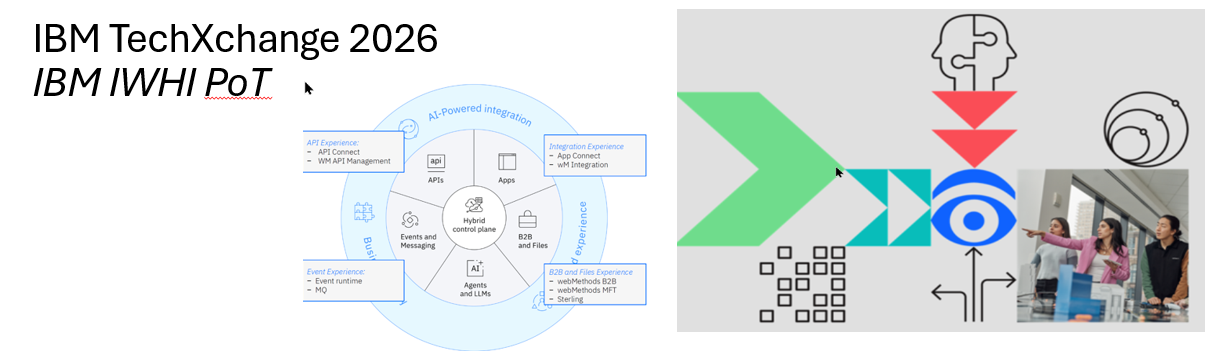
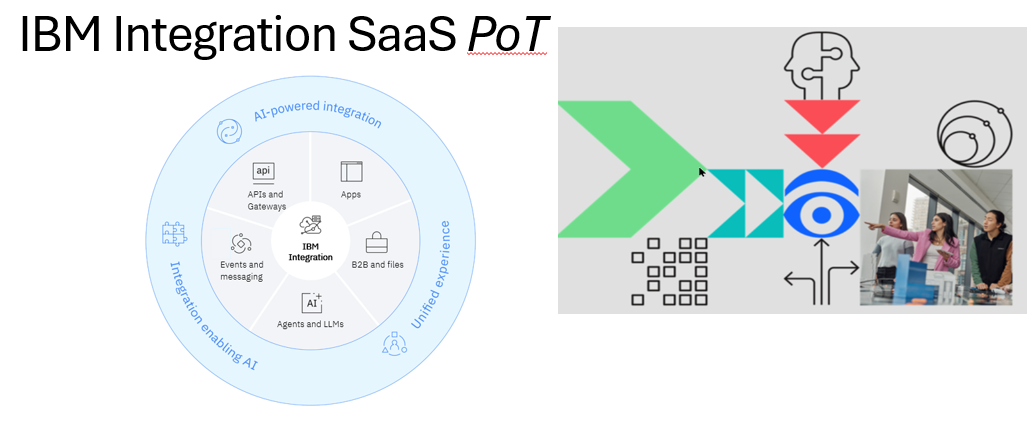
Update new naming

diff --git a/index.md b/index.md
@@ -6,10 +6,10 @@ Proof of Technology sessions are complimentary classes to build
 understanding of IBM technology and software with practical
 presentations and hands-on lab exercises. 
 
-**What is IBM IWHI?**
+**What is IBM Integration SaaS?**
 
-IBM webMethods Hybrid Integration (IWHI) is a unified, SaaS-based iPaaS that provides a central control plane for connecting APIs, applications, events, and B2B/EDI data across hybrid, multi-cloud environments. 
-Key features include AI-powered automation, end-to-end monitoring, and secure managed file transfers. 
+IBM Integration SaaS is a fully managed Integration Platform-as-a-Service (iPaaS). Customers don't
+manage infrastructure — IBM does. They connect apps, automate workflows, manage APIs, exchange B2B documents, transfer files, and handle event streams, all from one cloud platform 
 
 **Key Components and Features**
 
@@ -30,9 +30,9 @@ Key features include AI-powered automation, end-to-end monitoring, and secure ma
 
 |  Topic                                | Description                                                                
 |---------------------------------------|-----------------------------------------------------------------------------|
-| [IWHI - API Management](APIC/ReadMe.md)         | This section you will explore an API Management platform for use in your API Economy. IBM API Connect enables users to create, assemble, manage, secure and socialize APIs
+| [IBM Integration SaaS <br> API Management](APIC/ReadMe.md)         | This section you will explore an API Management platform for use in your API Economy. IBM API Connect enables users to create, assemble, manage, secure and socialize APIs
 |---------------------------------------|-----------------------------------------------------------------------------|
-| [IWHI - Integration](Integration/ReadMe.md)         | This section you will explorer key capabilities using both the ACE webmethods to build integrations solutions.
+| [IBM Integration SaaS <br> Integration](Integration/ReadMe.md)         | This section you will explorer key capabilities using both the ACE webmethods to build integrations solutions.
 |---------------------------------------|-----------------------------------------------------------------------------|
-| [IWHI - Managed File Transfer](MFT/ReadMe.md)     | **This section you will explorer key capabilities using both the webmethods MFT and webMethods integrations solutions**  
+| [IBM Integration SaaS <br> Managed File Transfer](MFT/ReadMe.md)     | **This section you will explorer key capabilities using both the webmethods MFT and webMethods integrations solutions**  
 |---------------------------------------|-----------------------------------------------------------------------------|
